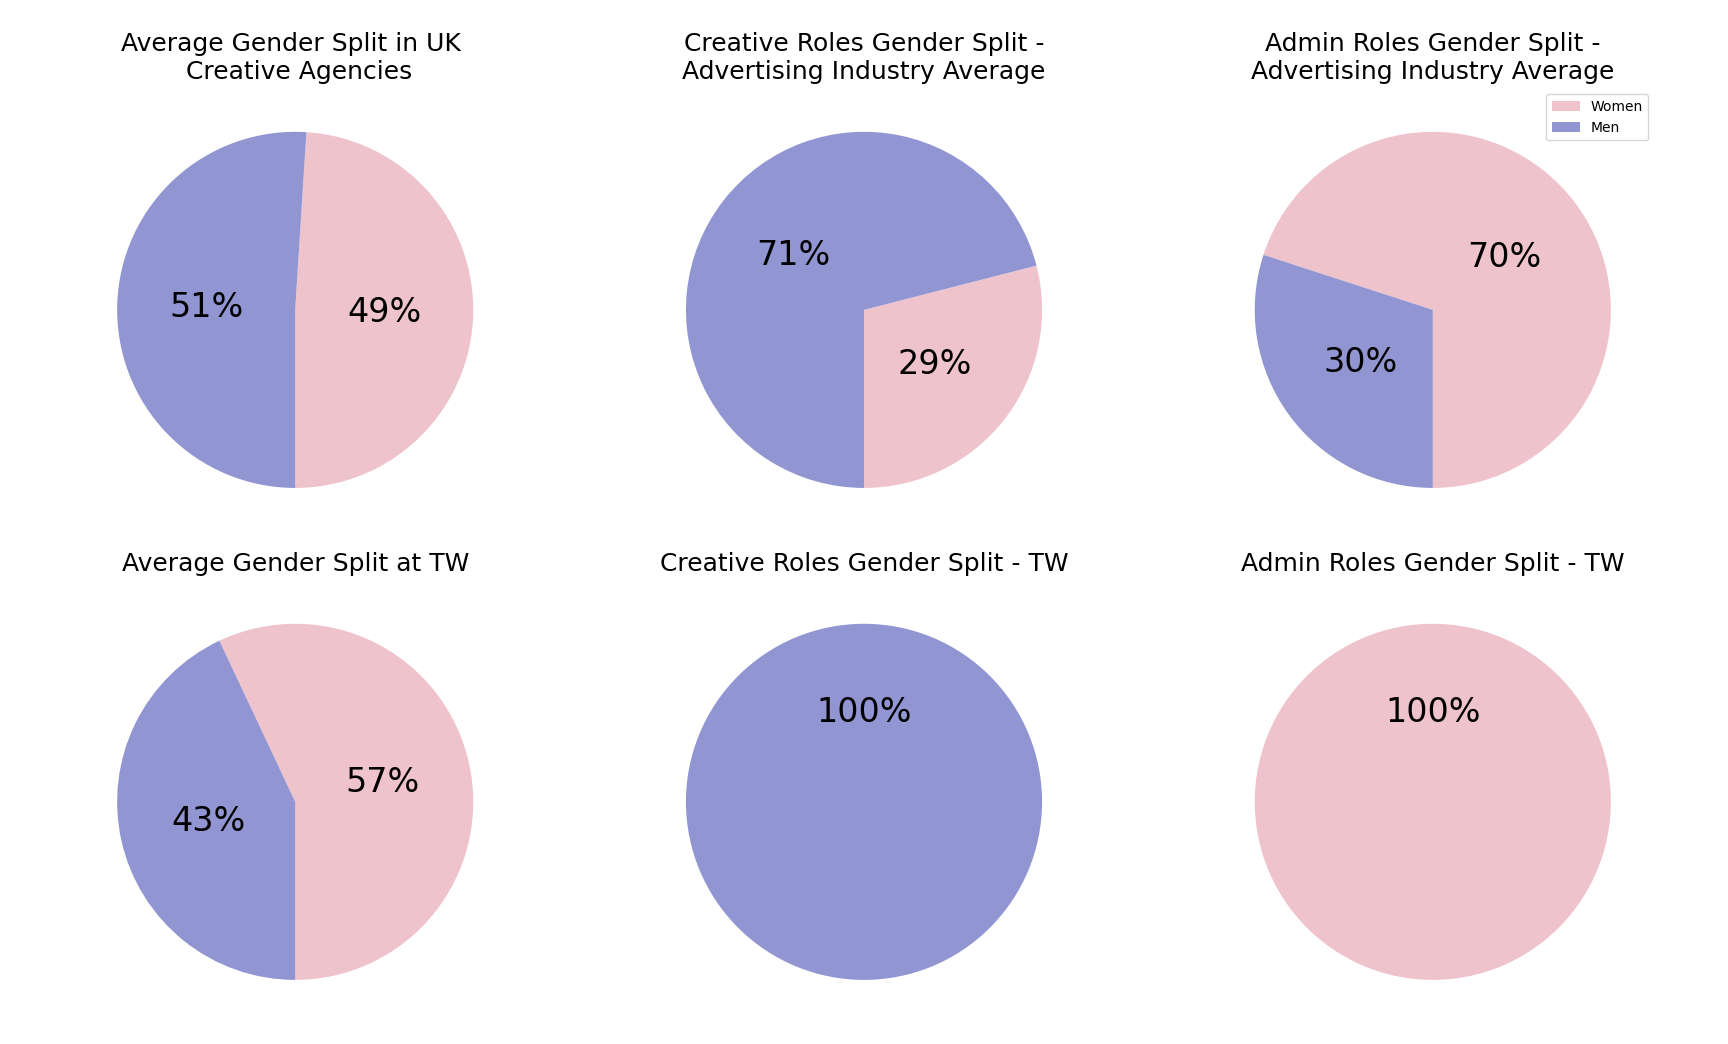
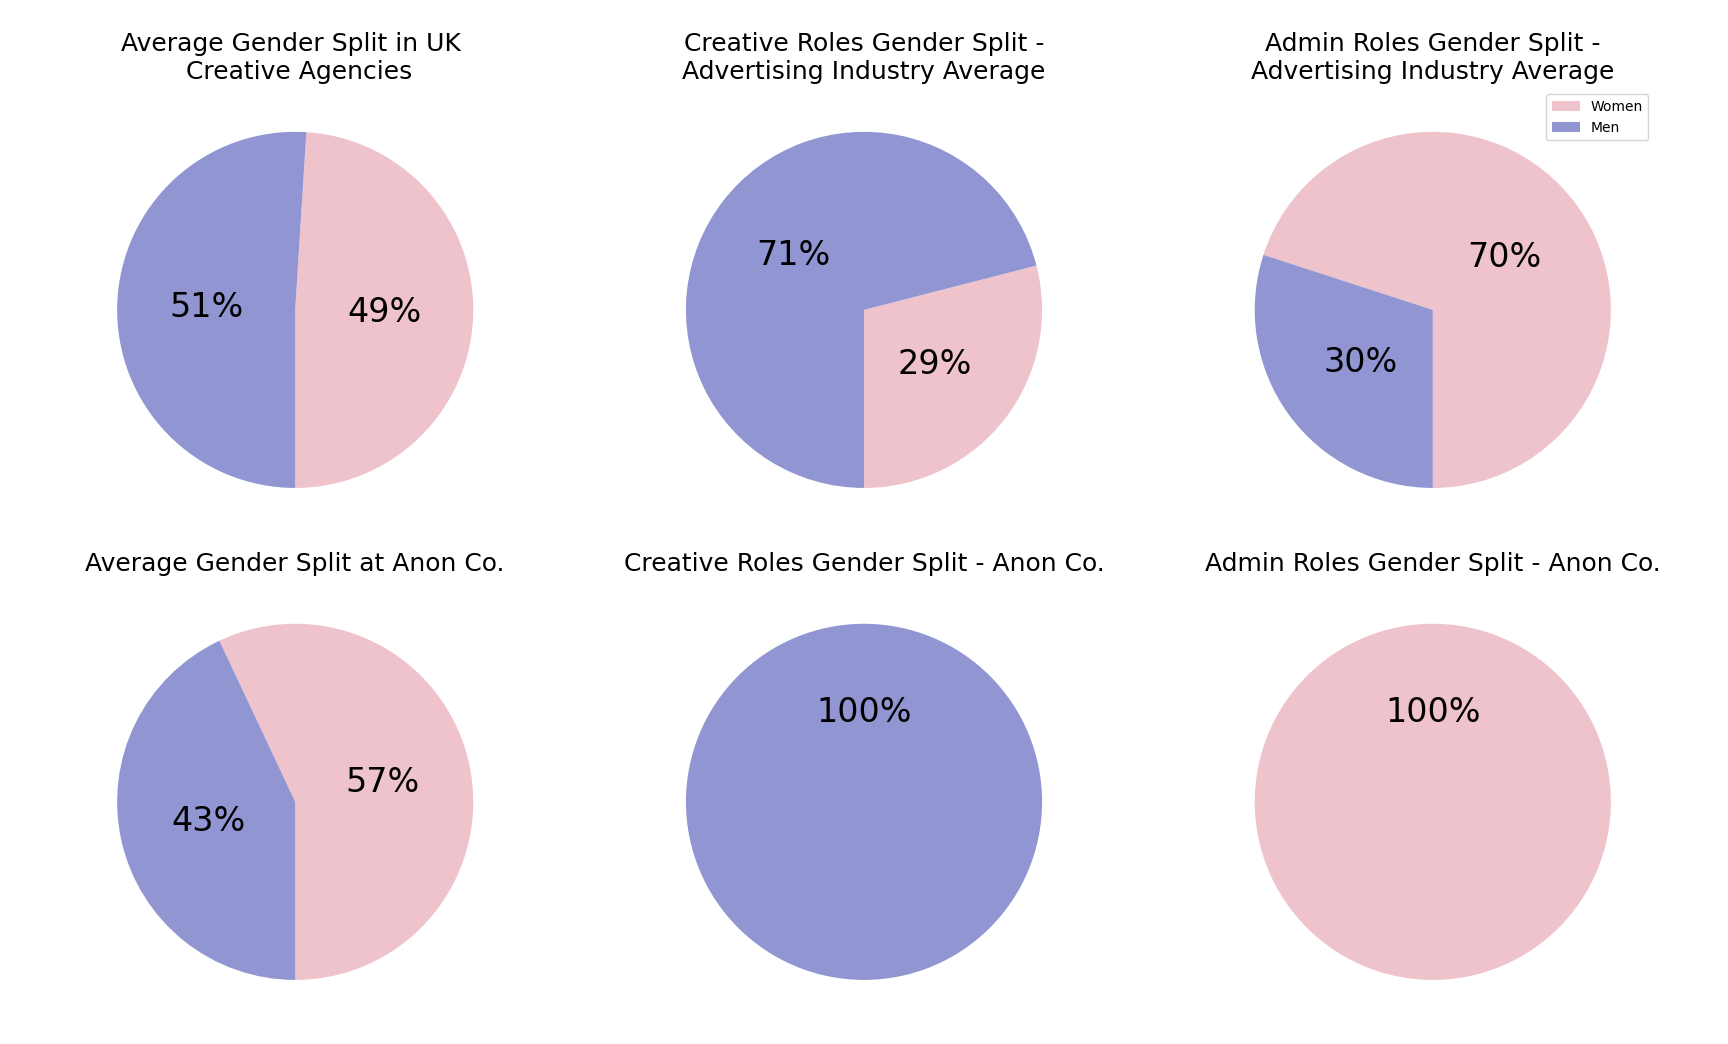
edit README

Changed region(s): [[0.6875, 0.5211, 0.9688, 0.5517], [0.375, 0.5211, 0.625, 0.5517], [0.0625, 0.5211, 0.2812, 0.5517]]

diff --git a/main.py b/main.py
@@ -4,9 +4,9 @@ import numpy as np
 
 groups = ['Women', 'Men']
 data = {
-        'Average Gender Split':  {'Advertising Industry Average': [49, 51], 'TW': [57, 43]},
-        'Creative Roles Gender Split':        {'Advertising Industry Average': [29, 71], 'TW': [0, 100]},
-        'Admin Roles Gender Split':           {'Advertising Industry Average': [70, 30], 'TW': [100, 0]}
+        'Average Gender Split':  {'Advertising Industry Average': [49, 51], 'Anon Co.': [57, 43]},
+        'Creative Roles Gender Split':        {'Advertising Industry Average': [29, 71], 'Anon Co.': [0, 100]},
+        'Admin Roles Gender Split':           {'Advertising Industry Average': [70, 30], 'Anon Co.': [100, 0]}
         }
 # Average Gender Split
 df = pd.DataFrame(data)
@@ -28,7 +28,7 @@ for i, row_name in enumerate(df.index):
 ax_flat[0].set_title('Average Gender Split in UK \n Creative Agencies', fontsize=18)
 ax_flat[1].set_title('Creative Roles Gender Split -\nAdvertising Industry Average', fontsize=18)
 ax_flat[2].set_title('Admin Roles Gender Split -\nAdvertising Industry Average', fontsize=18)
-ax_flat[3].set_title('Average Gender Split at TW', fontsize=18)
+ax_flat[3].set_title('Average Gender Split at Anon Co.', fontsize=18)
 
 ax_flat[2].legend(['Women', 'Men'])
 # fig.legend(wedges, groups)

diff --git a/README.md b/README.md
@@ -3,4 +3,3 @@ The code generates the charts seen in the figure below.
 
 ![gender in the creative industry charts](https://github.com/stefanobeni/gender-creative-industry/blob/main/gender-creative-charts.png?raw=true)
 
-Data for the pie charts comes from research by Sophie Emeny.
